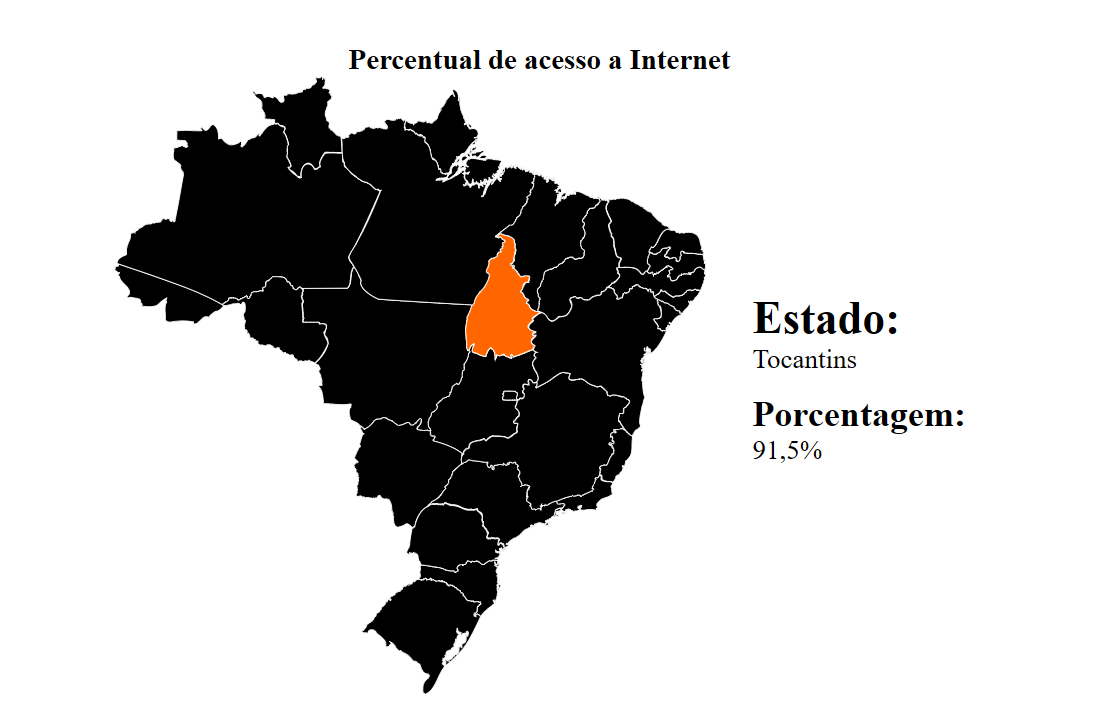
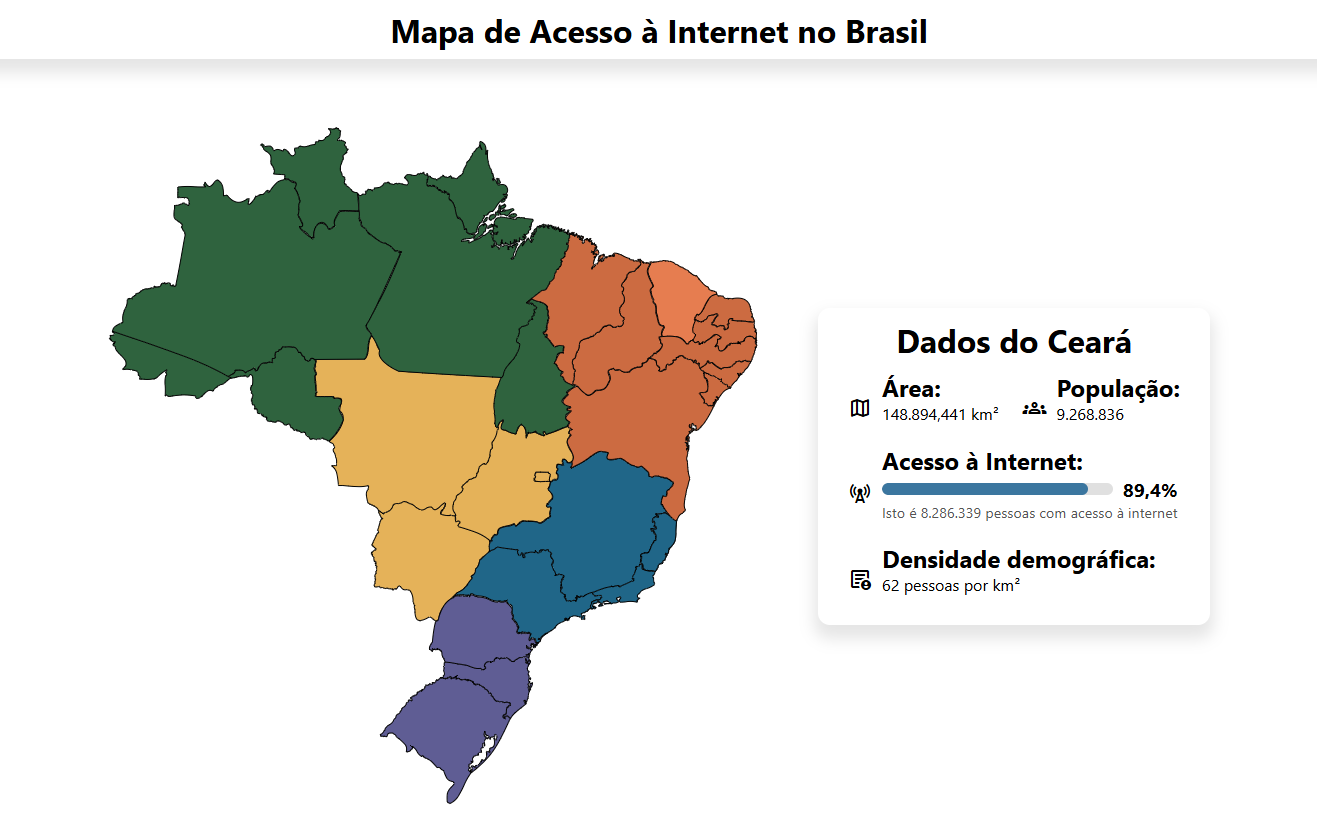
atualiza projetos

Changed region(s): [[0.0625, 0.0308, 0.7188, 0.986], [0.625, 0.4006, 0.9062, 0.7087]]

diff --git a/src/Projets/Projects.jsx b/src/Projets/Projects.jsx
@@ -1,6 +1,5 @@
 import './Projects.css'
 import OpenLibraryHub from '.././assets/OpenLibraryHub.png'
-import AnnyStore from '.././assets/annyStore.png'
 import Blog from '.././assets/Blog.png'
 import Mapa from '.././assets/Mapa.png'
 import Pirambu from '.././assets/pirambu-innovation.png'
